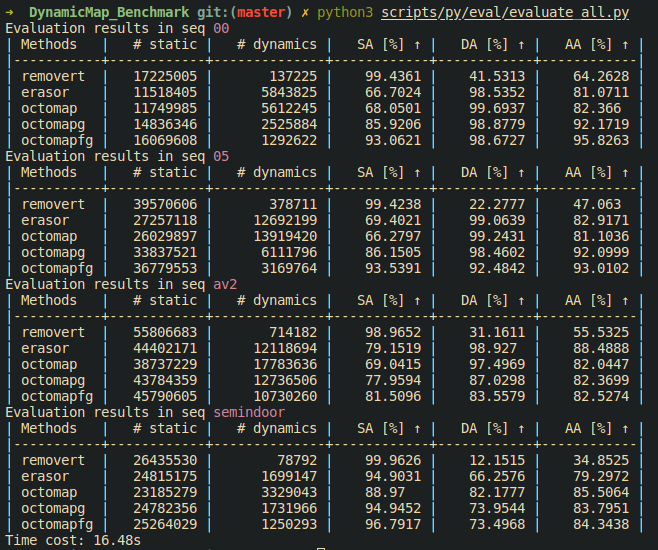
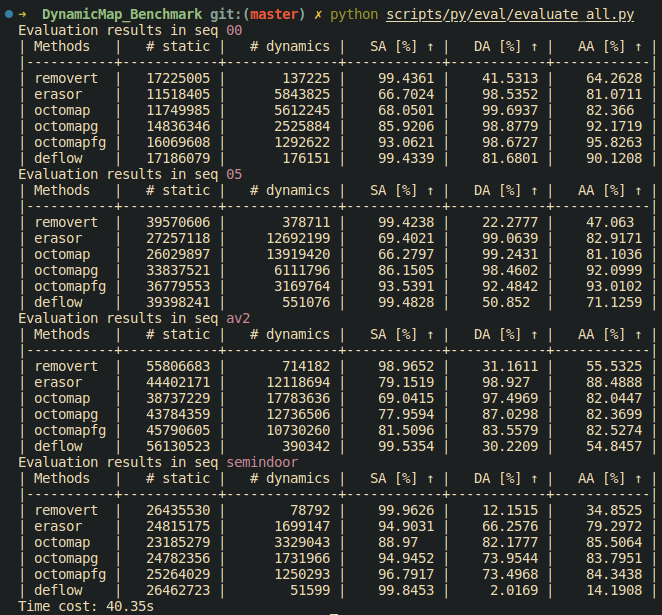
feat(method): add new methods! data-driven block: DeFlow. will add more soon.

diff --git a/README.md b/README.md
@@ -1,9 +1,9 @@
 A Dynamic Points Removal Benchmark in Point Cloud Maps
 ---
-
-[![arXiv](https://img.shields.io/badge/arXiv-2307.07260-b31b1b.svg)](https://arxiv.org/abs/2307.07260) 
-[![video](https://img.shields.io/badge/中文-BiliBili-09a4d7.svg)](https://www.bilibili.com/video/BV1bC4y1R7h3)
-[![video](https://img.shields.io/badge/English-YouTube-ff0000.svg)](https://youtu.be/pCHsNKXDJQM?si=nhbAnPrbaZJEqbjx)
+<!-- [![PWC](https://img.shields.io/endpoint.svg?url=https://paperswithcode.com/badge/a-dynamic-points-removal-benchmark-in-point/dynamic-point-removal-on-semi-indoor)](https://paperswithcode.com/sota/dynamic-point-removal-on-semi-indoor?p=a-dynamic-points-removal-benchmark-in-point) -->
+[![arXiv](https://img.shields.io/badge/arXiv-2307.07260-b31b1b?logo=arxiv&logoColor=white)](https://arxiv.org/abs/2307.07260) 
+[![video](https://img.shields.io/badge/中文-Bilibili-74b9ff?logo=bilibili&logoColor=white)](https://www.bilibili.com/video/BV1bC4y1R7h3)
+[![video](https://img.shields.io/badge/video-YouTube-FF0000?logo=youtube&logoColor=white)](https://youtu.be/pCHsNKXDJQM?si=nhbAnPrbaZJEqbjx)
 [![poster](https://img.shields.io/badge/Poster-6495ed?style=flat&logo=Shotcut&logoColor=wihte)](https://hkustconnect-my.sharepoint.com/:b:/g/personal/qzhangcb_connect_ust_hk/EQvNHf9JNEtNpyPg1kkNLNABk0v1TgGyaM_OyCEVuID4RQ?e=TdWzAq)
     
 Here is a preview of the readme in codes. Task detects dynamic points in maps and removes them, enhancing the maps:
@@ -36,15 +36,25 @@ Here is a preview of the readme in codes. Task detects dynamic points in maps an
 
 Please check in [`methods`](methods) folder.
 
+Offline (need prior map).
 - [x] ERASOR: [RAL 2021 official link](https://github.com/LimHyungTae/ERASOR), [**benchmark implementation**](https://github.com/Kin-Zhang/ERASOR/tree/feat/no_ros)
 - [x] Removert: [IROS 2020 official link](https://github.com/irapkaist/removert), [**benchmark implementation**](https://github.com/Kin-Zhang/removert)
-- [x] Octomap w GF: [**Benchmark improvement ITSC 2023**](https://github.com/Kin-Zhang/octomap/tree/feat/benchmark) origin mapping from [ICRA2010 & AR 2013 official link](https://github.com/OctoMap/octomap_mapping)
+- [ ] BeautyMap: [under review](), [**official code**](https://github.com/HKUSTGZ-IADC/BeautyMap)
+
+Online (w/o prior map):
+- [x] Octomap: [ICRA2010 & AR 2013 official link](https://github.com/OctoMap/octomap_mapping), [**Benchmark implementation**](https://github.com/Kin-Zhang/octomap/tree/feat/benchmark)
+- [x] Octomap w GF: [ITSC 2023](https://arxiv.org/abs/2307.07260), [**Benchmark improvement ITSC 2023**](https://github.com/Kin-Zhang/octomap/tree/feat/benchmark) 
 - [ ] DUFOMap: [Arxiv link](https://arxiv.org/abs/2403.01449), [**official code**](https://github.com/KTH-RPL/dufomap)
-- [ ] dynablox: [RAL 2023 official link](https://github.com/ethz-asl/dynablox), [**Benchmark Adaptation**](TODO)
+- [ ] dynablox: [RAL 2023 official link](https://github.com/ethz-asl/dynablox), [**Benchmark Adaptation**]()
+
+Learning-based (data-driven) (w pretrain-weights provided):
+- [x] DeFlow: [ICRA 2024](https://arxiv.org/abs/2401.16122), [**Benchmark Adaptation**](https://github.com/KTH-RPL/DeFlow/tree/feature/dynamicmap)
+
 
 Please note that we provided the comparison methods also but modified a little bit for us to run the experiments quickly, but no modified on their methods' core. Please check the LICENSE of each method in their official link before using it.
 
-You will find all methods in this benchmark under `methods` folder. So that you can easily reproduce the experiments. And we will also directly provide [the result data](TODO) so that you don't need to run the experiments by yourself.
+You will find all methods in this benchmark under `methods` folder. So that you can easily reproduce the experiments. [Or click here to check our score screenshot directly](assets/imgs/eval_demo.png). 
+<!-- And we will also directly provide [the result data](TODO) so that you don't need to run the experiments by yourself. Or  -->
 
 Last but not least, feel free to pull request if you want to add more methods. Welcome!
 
@@ -57,7 +67,8 @@ Download all these dataset from [Zenodo online drive](https://zenodo.org/record/
 - [x] [UDI-Plane] Our own dataset, Collected by VLP-16 in a small vehicle.
 - [ ] [KTH-Campuse] Our [Multi-Campus Dataset](https://mcdviral.github.io/), Collected by [Leica RTC360 3D Laser Scan](https://leica-geosystems.com/products/laser-scanners/scanners/leica-rtc360).
 - [ ] [HKUST-Building] Our [fusionportable Dataset](https://fusionportable.github.io/dataset/fusionportable/), collected by [Leica BLK360 Imaging Laser Scanner](https://leica-geosystems.com/products/laser-scanners/scanners/blk360)
-- [ ] [KTH-Indoor] Our own dataset, Collected by VLP-16/Mid-70 in kobuki.
+- [ ] [Indoor-Floor] Our own dataset, Collected by Livox mid-360 in a quadruped robot.
+<!-- - [ ] [KTH-Indoor] Our own dataset, Collected by VLP-16/Mid-70 in kobuki. -->
 
 Welcome to contribute your dataset with ground truth to the community through pull request.
 

diff --git a/scripts/README.md b/scripts/README.md
@@ -50,6 +50,9 @@ python3 scripts/py/eval/evaluate_all.py
 Here is the demo output:
 
 ![](../assets/imgs/eval_demo.png)
+
+
+
 ### Optional: Create the visualization
 
 Make sure you have the `gt_cloud.pcd`, `method_output.pcd` and `method_output_exportGT.pcd` which produced by above part.
